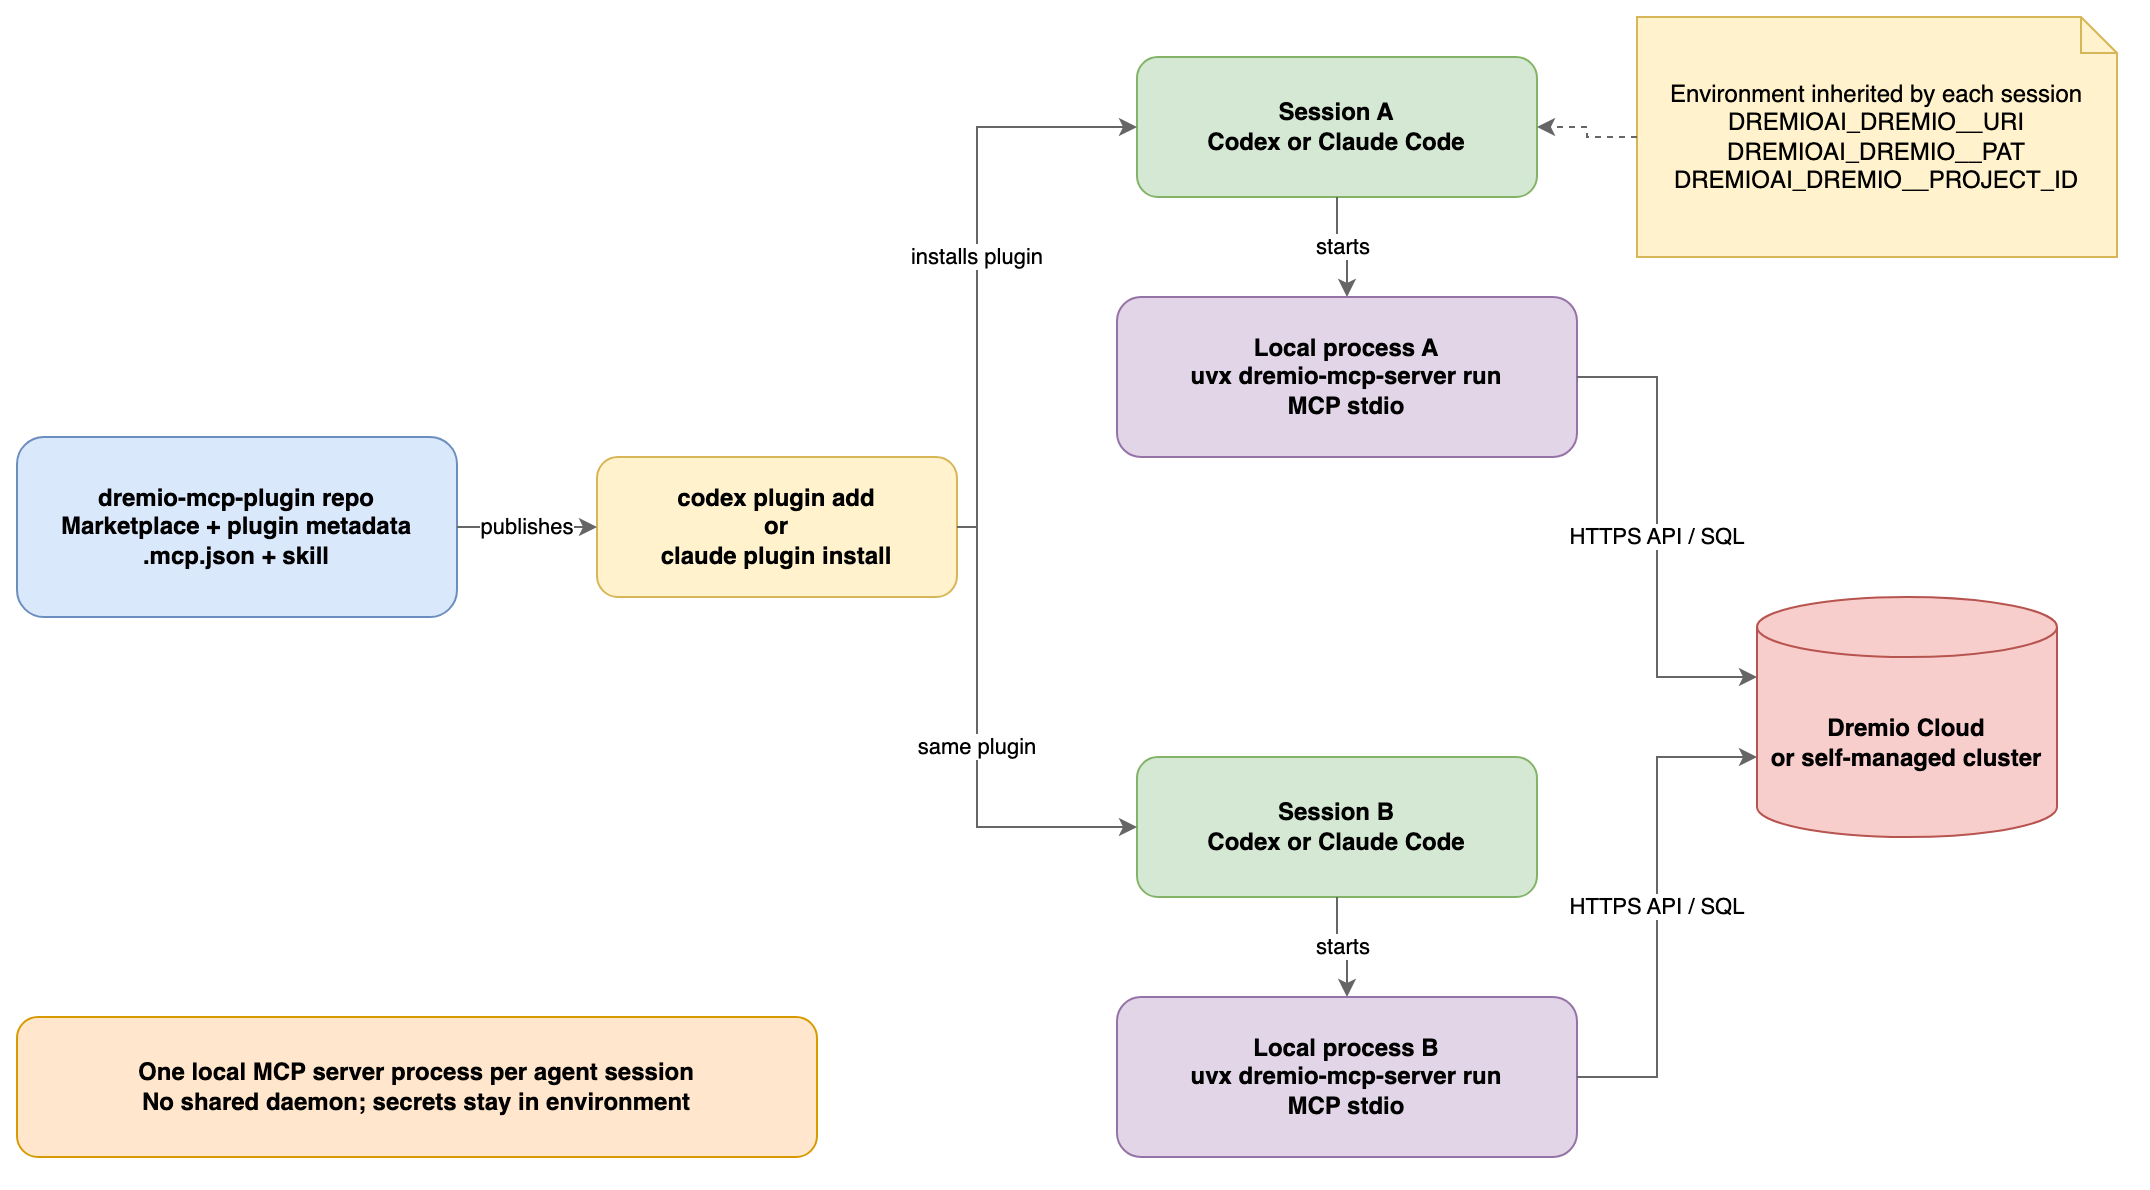
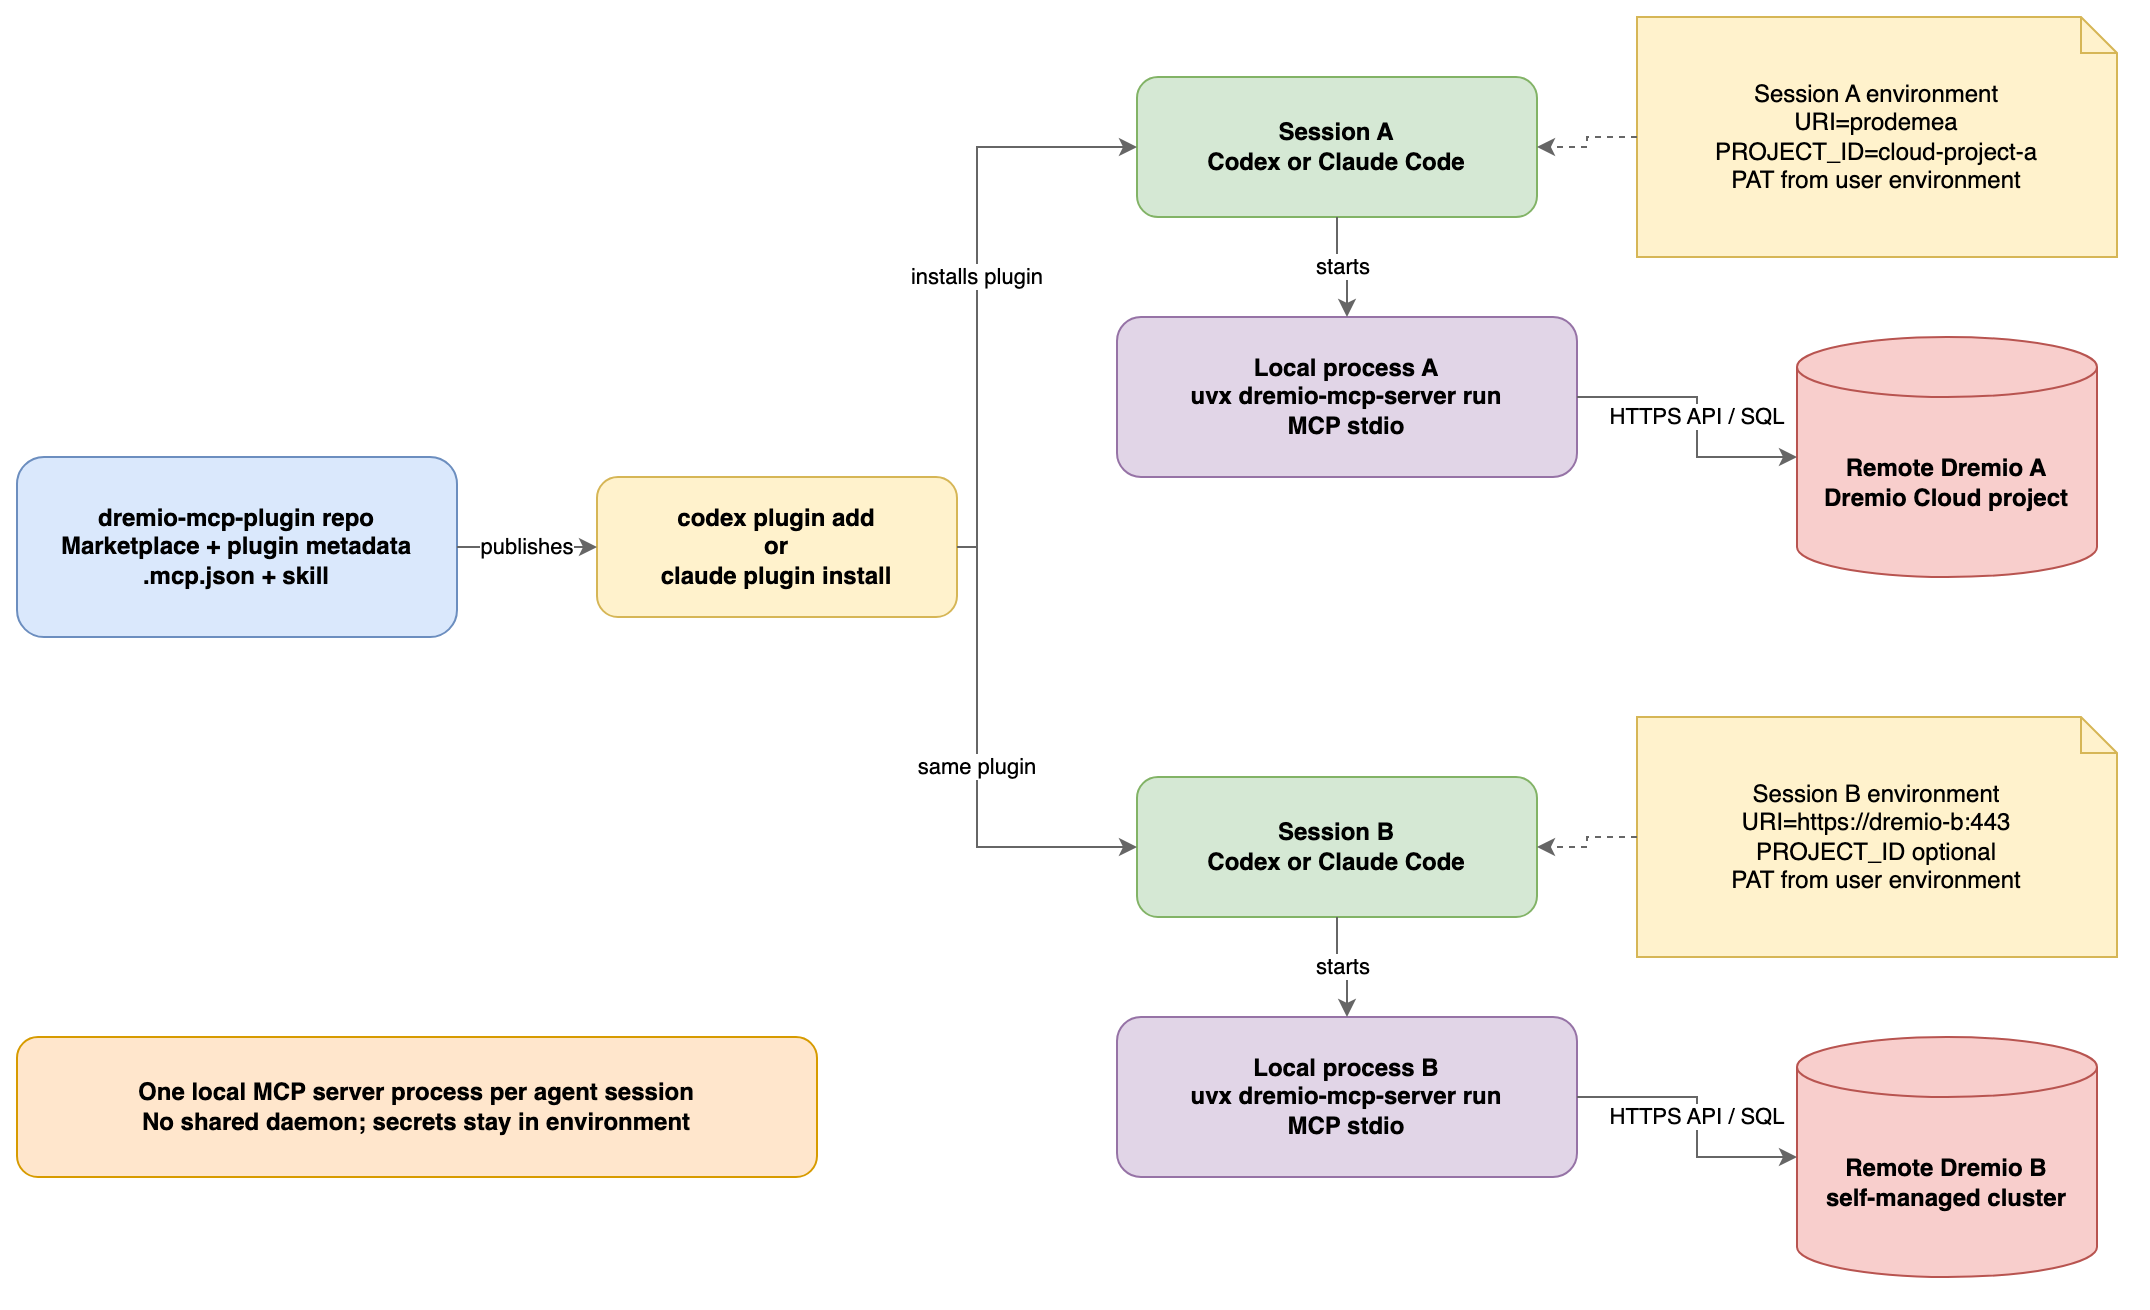
chore: release 0.2.1

diff --git a/docs/architecture.md b/docs/architecture.md
@@ -16,6 +16,7 @@ The process is session-scoped:
 - Session B starts a separate local MCP server process.
 - Processes communicate with the agent over MCP stdio.
 - Processes read Dremio connection settings from the environment.
+- Each session can inherit different Dremio connection settings, so Session A and Session B can point to different Dremio Cloud projects or self-managed clusters.
 - The upstream server can also read `.env` and the default `~/.config/dremioai/config.yaml` fallback described in [config.md](config.md).
 - No shared daemon is expected or required.
 
@@ -42,7 +43,7 @@ The process is session-scoped:
 
 ## Process Isolation
 
-The local server is not shared across sessions. This keeps lifecycle and credentials tied to the agent process that started it. Closing the session ends that session's local MCP process.
+The local server is not shared across sessions. This keeps lifecycle, target Dremio instance, and credentials tied to the agent process that started it. Closing the session ends that session's local MCP process.
 
 ## Security Boundary
 

diff --git a/CHANGELOG.md b/CHANGELOG.md
@@ -4,6 +4,13 @@ All notable changes to this project are documented here.
 
 This project follows [Semantic Versioning](https://semver.org/spec/v2.0.0.html).
 
+## [0.2.1] - 2026-07-02
+
+### Changed
+
+- Updated the architecture diagram to show separate local MCP server processes targeting different remote Dremio instances.
+- Clarified that each agent session can inherit different Dremio connection settings.
+
 ## [0.2.0] - 2026-07-01
 
 ### Changed
